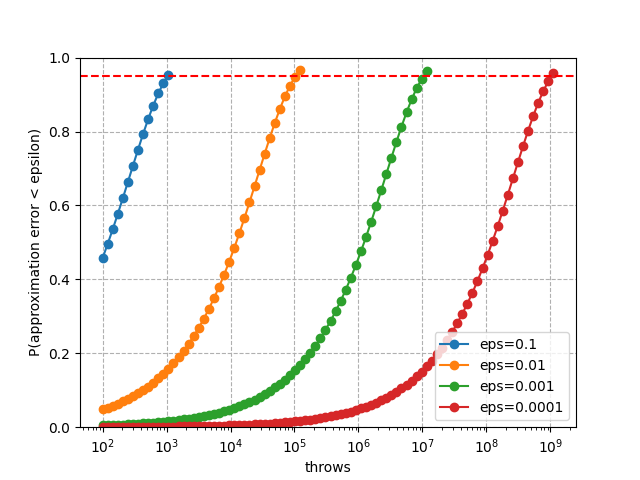
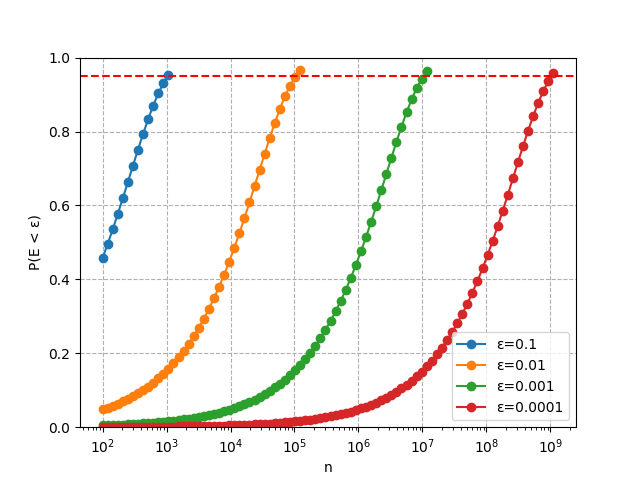
Almost finished draft of darts article.
Remaining work:

* Consistent terminology (darts board vs backboard).
* Less jarring code highlighting.
* Rewrite code appendix to use new code.

Changed region(s): [[0.6562, 0.6875, 0.7812, 0.875], [0.0312, 0.2812, 0.0625, 0.75], [0.4688, 0.9688, 0.5625, 1.0]]

diff --git a/experiments/darts/piprecision.py b/experiments/darts/piprecision.py
@@ -19,7 +19,7 @@ def plot(eps):
         if y >= TARGET_SUCCESS_RATE:
             break
         n *= 1.2
-    plt.plot(ns, ys, label="eps={}".format(eps), marker="o")
+    plt.plot(ns, ys, label="ε={}".format(eps), marker="o")
 
 def main():
     for eps in [0.1, 0.01, 0.001, 0.0001]:
@@ -29,8 +29,8 @@ def main():
     plt.ylim(bottom=0., top=1.)
     plt.axhline(y=TARGET_SUCCESS_RATE, color="red", linestyle="--")
     plt.grid(linestyle="--")
-    plt.xlabel("throws")
-    plt.ylabel("P(approximation error < epsilon)")
+    plt.xlabel("n")
+    plt.ylabel("P(E < ε)")
     plt.show()
 
 if __name__ == "__main__":

diff --git a/pages/blog/darts.md b/pages/blog/darts.md
@@ -1,90 +1,95 @@
 title: The darts player who estimated π
 date: 2020-12-23
-description: How you can estimate a mathematical constant using only darts and a dartboard.
+description: A story of darts and Monte Carlo methods.
 requires: math code
 
-A young student walked into a bar. She had just finished a gruelling computational mathematics assignment, and it was time for a relaxing game of darts.
+A student walked into a bar. She had just finished a gruelling computational maths assignment, and it was time for a relaxing game of darts.
 
-She wandered over to the darts board and started to throw. After clumsily hurling a couple of darts, she stood back to review her efforts. The darts seemed to be distributed across the board without any noticeable pattern. Almost... at random.
+She wandered over to a darts board in the corner and started to throw. After hurling a few darts, she stood back to review her efforts. She wasn't a talented darts player, and the darts seemed to distribute themselves across the board without any noticeable pattern. Almost... at random.
 
 <img src="{{ url_for('static', filename='img/darts/board.png') }}"
      alt="Some darts scattered 'randomly' across a dartboard."
      class="centered">
 
-This last thought put her mind to work. She had been doing monte carlo stuff. If the darts were indeed landing at random, then it would be as if she were taking a random sampel from teh square. If she treated it as a 1x1 square, with area 1, then she could estimate the area of the circle by the proportion of darts that landed in the circle. hits/(hits+misses). Then another thought occurred to her. The area of a circle is πr^2; if she knew the area of the circle, she could estimate π! The formula is BLAH. All without using so much as a ruler.
+This last thought put her mind to work. If the darts were aimed at random, then it would be like sampling random points from the darts board. And couldn't that sample be used to estimate the area of the circular part of the board? For example, if 7 out of 10 darts landed in the circle, she would expect the circle to fill about 7/10 of the overall board. And wouldn't that be neat?
 
-She throws 100 darts. An estimate of.... 3.02 (or whatever). Well, it wasn't bad, but it seemed like she would have to throw an awful lot of darts to get a worthwhile estimate. And her arm was already tired. But wait! Couldn't she program a computer to do this sort of repetitive shit? She had been studying monte carlo simulation.
+But just as she was about to run off and get a measuring tape, another thought occurred to her. Since the area of a circle is $\pi r^2$, wouldn't her estimate also give a free estimate of $\pi$? If the backboard, a square, had sides of length $1$, then its area would be $A=1\times1=1$, and the circle would have radius $r=1/2$. And if a fraction $f$ of her darts hit the circle, her estimate of the area would be $fA=f=\pi (1/2)^2=\pi/4$. Her estimate of $\pi$ would then be:
 
-So she raced home and wrote up the following computer program to do the dirty work. She occupied an alternative universe where Common Lisp was the most popular programming language in the world, so that's the one she used. Her program took a single parameter, `n`, and simulated that many dart throws. The output was an estimate of π.
+$$\pi=4f.$$
+
+An estimate of the most famous mathematical constant, and she wouldn't need anything besides darts!
+
+She began to throw. 10 darts, 20 darts, 50 darts. She kept a diligent count of where the darts landed. She stopped when her arm got sore, after she had thrown 100 darts. 81 darts had landed in the circle, which gave an estimate of $\pi = 4(81/100) = 3.24$. It was in the same ballpark as $\pi$, but it seemed like she would need to throw lots more darts to get a decent estimate. And her arm was already dead from throwing. If only there were a way to automate this tedious process.
+
+But of course! That's what she was studying computational maths for. She raced home to her computer and wrote the following code to do the dirty work. She occupied an alternative universe where Common Lisp was the most popular programming language, so that's the programming language she used. Her program took a single parameter, `n`, and simulated `n` dart throws. The output was an estimate of $\pi$.
 
     :::lisp
-    (defparameter +r+ 1/2)
-
     (defun estimate-pi (n)
-      (let ((in-circle-count 0))
-        (loop repeat n
-              do (destructuring-bind (x y)
-                     (random-xy)
-                   (when (is-in-circle-p x y)
-                     (incf in-circle-count))))
-        (* 4 (/ in-circle-count n))))
+      (let ((in-circle-count
+              (loop repeat n
+                    sum (if (apply #'is-in-circle-p (random-xy)) 1 0))))
+        (* 4 (/ in-circle-count throws))))
 
     (defun random-xy ()
       (loop repeat 2
-            collect (- +r+ (random (* 2.0 +r+)))))
+            collect (- 1/2 (random (* 2.0 1/2)))))
 
     (defun is-in-circle-p (x y)
-      (<= (sqrt (+ (square x) (square y)))
-          +r+))
+      (<= (sqrt (+ (square x) (square y))) 1/2))
 
     (defun square (x)
       (* x x))
 
-She simulated 1000 throws.
+She simulated 1000 throws through her Common Lisp interpreter.
 
     :::lisp
-    CL-USER> (estimate-pi 1000)
+    > (estimate-pi 1000)
     3.104
 
 Wonderful! She would merely have to keep increasing the number of throws and her estimate would get better and better. Soon she'd have the most accurate estimate of π in the world.
 
     :::lisp
-    CL-USER> (estimate-pi 10000)
+    > (estimate-pi 10000)
     3.1356
-    CL-USER> (estimate-pi 100000)
+    > (estimate-pi 100000)
     3.14144
-    CL-USER> (estimate-pi 1000000)
+    > (estimate-pi 1000000)
     3.142252
-    CL-USER> (estimate-pi 10000000)
+    > (estimate-pi 10000000)
     3.1426332
 
-Except, after simulating 10 *million* throws, her approximation was still only accurate to 2 decimal places! Her computer's fan was getting noisy and she didn't want to tire it out, in the same way that she had become tired out in the bar. She sat back and wondered how many darts she would need to throw in order to achieve an estimate of a particular level of accuracy. Luckily, she was also taking a course on probability, so she knew there was a high probability that she would be able to figure it out.
+Except, after simulating 10 *million* throws, her approximation was still only accurate to 2 decimal places! Her computer's fan was getting noisy, and she didn't want to push it to the limit. Instead, she sat back and wondered how many darts she would need to throw in order to achieve an accuracy of, say, 4 decimal places. Luckily, there was a high probability that she would be able to figure this out, since she was also taking a course on probability.
 
-The other day, she had learned about binomial random variables. Let's say we throw $n$ darts. Let $X$ be the number of darts that hit the dartboard. $X$ is what's known as a binomial random variable. "Random variable" means that it has a random value, while "binomial" means that it's equivalent to a bunch of coin flips. In our case, $X$'s random value is between 0 and $n$, and each "coin flip" has probability $p=\pi/4$ of landing on heads (a.k.a. hitting the dartboard).
+She knew that she could model the number of darts to hit the darts board as a [*binomial random variable*](https://en.wikipedia.org/wiki/Binomial_distribution), $X$ -- a random variable being a variable that assumes each of its possible values with a certain probability. In this case, if she threw $n$ darts, then $X$ could take on any value from $0$ to $n$. Her estimate $Y$ could be modelled as $Y=4X/n$, and the error as $E=\vert Y-\pi\vert$.
 
-WHY SHOULD WE CARE ABOUT THIS RANDOM VARIABLE CRAP? Our end goal here is to calculate the probability of our estimate being within a small distance, $\epsilon$, of π. We can use the power of random variables to calculate this. Just bear with me for one more minute.
-
-Let $Y=4X/n$ be our estimate of π. It's also a random variable. We calculate the probability of $Y$ being within $\epsilon$ of π, like so:
+After all that, she could estimate the probability of the error being less than some small value, $\epsilon$.
 
 $$
 \begin{aligned}
-P(-\epsilon < Y-\pi < \epsilon) &= 1-2P(Y-\pi < -\epsilon) \\
+P(E < \epsilon) &= 1-2P(Y-\pi < -\epsilon) \\
 &= 1-2P(4X/n < \pi-\epsilon) \\
 &= 1-2P(X < n(\pi-\epsilon)/4).
 \end{aligned}
 $$
 
-Okayyyy, we've expressed the probability of our estimate having a given level of accuracy, in terms of the probability of $X$ being less than some number. And *that* can be estimated by using a normal approximation of the binomial random variable $X$. Binomial RVs with $n$ samples and $p$ near 0.5 can be approximated using a normal distribution with mean $\mu=np$ and standard deviation $\sigma=\sqrt{np(1-p)}$. And that's how we produce the following graph.
+The tricky part here would be calculating $P(X < n(\pi-\epsilon)$. The probability of a binomial random variable being less than some number $k$ is
+
+$$P(X < k) = \sum^{k-1}_{i=0} {n \choose i}p^i(1-p)^{n-i},$$
+
+which is a pain in the ass to calculate as $k$ becomes very large. Thankfully, however, she knew that binomial random variables with $n$ samples and $p$ not too small or too large can be approximated using a normal distribution with mean $\mu=np$ and standard deviation $\sigma=\sqrt{np(1-p)}$. That's how she produced the following graph, which indicated that an accuracy beyond 3 or 4 decimal places was a hopeless cause.
 
 <img src="{{ url_for('static', filename='img/darts/graph.png') }}"
      alt="Plot of the probability of our approximation having a certain level of accuracy given 'n' throws."
      class="centered">
 
+A few days later, the student was explaining her dart experiment to a friend.
+
+"I see," said the friend. "It seems you've squeezed as much of π as you can out of darts. What will your next project be?"
 
 "Well... have you heard of *e*?"
 
-### Appendix A: in the real world
-The story above was inspired by exercise 3.5 of the computer science textbook, *Structure and Interpretation of Computer Programs*. It asks you to estimate π using a Monte Carlo algorithm, which just means that you simulate throwing a dart a bunch of times.
+### Appendix A: background
+This story was inspired by exercise 3.5 of the computer science textbook, *Structure and Interpretation of Computer Programs*. It asks you to estimate π using a Monte Carlo algorithm, which just means that you simulate a bunch of dart throws.
 
 To see the darts experiment in action, watch [this video](https://www.youtube.com/watch?v=M34TO71SKGk) (Physics Girl, "Calculating Pi with Darts").
 
